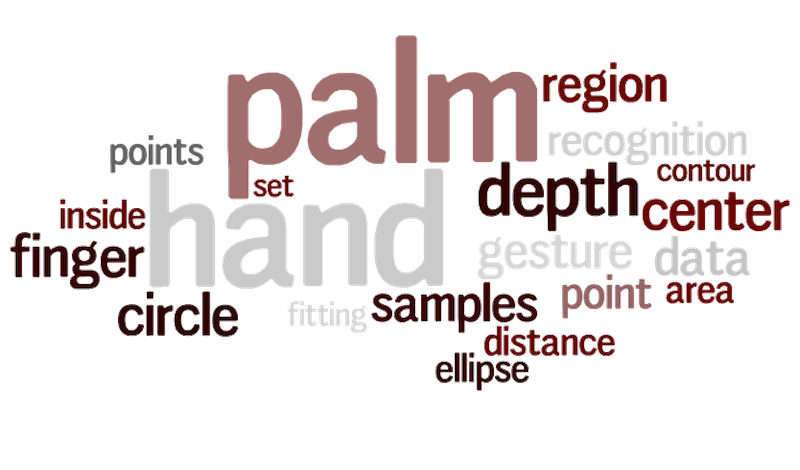
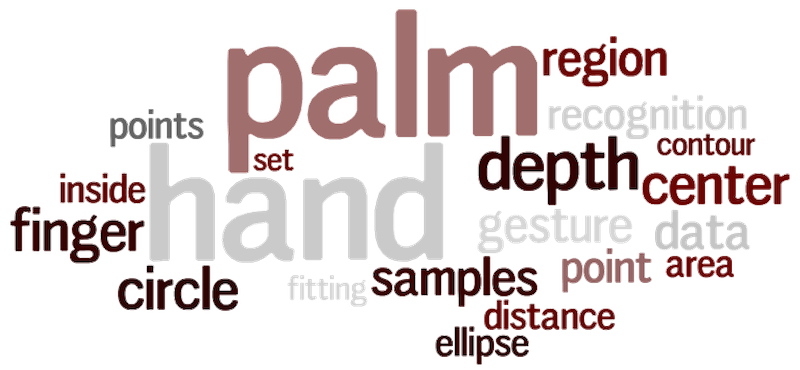
Add paper fusion agresti

diff --git a/index.html b/index.html
@@ -1,60 +1,60 @@
 <!doctype html>
 <html lang="en">
 
-  <head>
-    <meta charset="utf-8">
-    <title>Giulio Marin</title>
-    <meta name="description" content="Giulio Marin is a computer vision R&amp;D engineer at Aquifi Inc.">
-    <meta name="keywords" content="Engineer,Aquifi,R&amp;D,Algorithms,PhD,Software,Computer Vision,Machine Learning,Deep Learning">
-    <meta name="viewport" content="width=device-width, initial-scale=1.0">
-    <link rel="shortcut icon" href="favicon.ico" type="image/x-icon" />
-    <link rel="stylesheet" type="text/css" href="styles/base.css" />
-    <link href="//fonts.googleapis.com/css?family=Dosis:400,700%7CBitter:400,400italic,700&subset=latin,latin" rel="stylesheet" type="text/css">
-    <script src="https://ajax.googleapis.com/ajax/libs/jquery/1.12.0/jquery.min.js"></script>
-    <script>
-      $(function(){
-        $("#my-footer").load("/footer.html");
-      });
-    </script>
-  </head>
+<head>
+  <meta charset="utf-8">
+  <title>Giulio Marin</title>
+  <meta name="description" content="Giulio Marin is a computer vision R&amp;D engineer at Aquifi Inc.">
+  <meta name="keywords" content="Engineer,Aquifi,R&amp;D,Algorithms,PhD,Software,Computer Vision,Machine Learning,Deep Learning">
+  <meta name="viewport" content="width=device-width, initial-scale=1.0">
+  <link rel="shortcut icon" href="favicon.ico" type="image/x-icon" />
+  <link rel="stylesheet" type="text/css" href="styles/base.css" />
+  <link href="//fonts.googleapis.com/css?family=Dosis:400,700%7CBitter:400,400italic,700&subset=latin,latin" rel="stylesheet" type="text/css">
+  <script src="https://ajax.googleapis.com/ajax/libs/jquery/1.12.0/jquery.min.js"></script>
+  <script>
+  $(function(){
+    $("#my-footer").load("/footer.html");
+  });
+  </script>
+</head>
 
-  <body>
-    <p id="test1"></p>
-    <div id="topbar" role="banner">
-      <a class="logo icon-btn" href="index.html">
-        <i class="icon-home"></i>
-      </a>
+<body>
+  <p id="test1"></p>
+  <div id="topbar" role="banner">
+    <a class="logo icon-btn" href="index.html">
+      <i class="icon-home"></i>
+    </a>
 
-      <ul class="inline-list title">
-        <li><a class="btn plain" href="publications.html"><i class="icon-pencil" title="Publications"></i>Publications</a>
-        </li>
-        <li><a class="btn plain" href="projects.html"><i class="icon-floppy" title="Projects"></i>Projects</a>
-        </li>
-        <li><a class="btn plain" href="photos.html"><i class="icon-camera" title="Photos"></i>Photos</a>
-        </li>
-        <li><a class="btn plain" href="extra.html"><i class="icon-tv" title="Extra"></i>Extra</a>
-        </li>
-      </ul>
+    <ul class="inline-list title">
+      <li><a class="btn plain" href="publications.html"><i class="icon-pencil" title="Publications"></i>Publications</a>
+      </li>
+      <li><a class="btn plain" href="projects.html"><i class="icon-floppy" title="Projects"></i>Projects</a>
+      </li>
+      <li><a class="btn plain" href="photos.html"><i class="icon-camera" title="Photos"></i>Photos</a>
+      </li>
+      <li><a class="btn plain" href="extra.html"><i class="icon-tv" title="Extra"></i>Extra</a>
+      </li>
+    </ul>
 
-      <a class="icon-btn nav-trigger" href="#nav">
-        <i class="icon-menu"></i>
-      </a>
+    <a class="icon-btn nav-trigger" href="#nav">
+      <i class="icon-menu"></i>
+    </a>
+  </div>
+
+  <div id="page" role="main">
+    <div id="banner">
+      <div id="silhouettes">
+        <img src="images/io.png" alt="Giulio's face">
+      </div>
+      <div id="strap">Computer Vision R&amp;D Engineer</div>
     </div>
 
-    <div id="page" role="main">
-      <div id="banner">
-        <div id="silhouettes">
-          <img src="images/io.png" alt="Giulio's face">
-        </div>
-        <div id="strap">Computer Vision R&amp;D Engineer</div>
-      </div>
-
-      <header class="wrap">
-        <h1 itemscope itemtype="http://data-vocabulary.org/Person" class="page-title"><span itemprop="name">Giulio Marin</span></h1>
-        <p class="intro">I'm a Senior Computer Vision Engineer at Aquifi. Here I’m leading a group of a few people that focus on delivering accurate data from the depth camera. I’m also working on anomaly and defect detection combining 3D geometry and image based deep learning techniques.<br>
+    <header class="wrap">
+      <h1 itemscope itemtype="http://data-vocabulary.org/Person" class="page-title"><span itemprop="name">Giulio Marin</span></h1>
+      <p class="intro">I'm a Senior Computer Vision Engineer at Aquifi. Here I’m leading a group of a few people that focus on delivering accurate data from the depth camera. I’m also working on anomaly and defect detection combining 3D geometry and image based deep learning techniques.<br>
         I got my PhD at the University of Padova, Italy, in 2016, with a thesis on combining color and depth information to improve the quality of the acquisitions for applications from gesture recognition to 3D reconstruction.<br>
         I have experience with camera calibration, color and depth processing, 3D reconstruction, and machine learning.
-          <br>I have served and I'm serving as a reviewer and TPC member for ICIP, ICME and IEEE Signal Processing Letters.</p>
+        <br>I have served and I'm serving as a reviewer and TPC member for ICIP, ICME and IEEE Signal Processing Letters.</p>
         <ul>
           <li><a class="btn plain" href="doc/giulio_marin_cv.pdf"><i class="icon-doc" title="About me"></i>Curriculum Vitae</a>
           </li>
@@ -78,6 +78,13 @@
         <h2 class="list-title"><i class="icon-pencil"></i><a href="publications.html">Latest publications</a></h2>
         <ul class="post-list">
           <!-- Autogenerated: start-->
+          <li class="post-block">
+            <a href="publications.html#journals">
+              <p class="post-meta">Gianluca Agresti, Ludovico Minto, Giulio Marin, Pietro Zanuttigh, <em>"Stereo and ToF data fusion by learning from synthetic data"</em>, Information Fusion, Elsevier, 2018</p>
+            </a>
+          </li>
+
+
           <li class="post-block">
             <a href="publications.html#patents">
               <p class="post-meta">F. Peruch, G. Murali, G. Marin, A. Rafii, K. Tieu, <em>"System and method for assisted 3D scanning"</em>, Aquifi, Inc., US9912862B2, 2017</p>
@@ -104,13 +111,6 @@
               <p class="post-meta">A. Hazeghi, C. Dal Mutto, G. Marin, F. Peruch, M. Stoppa, A. Rafii, <em>"Systems and methods for compact space-time stereo three-dimensional depth sensing"</em>, Aquifi, Inc., US9826216B1, 2016</p>
             </a>
           </li>
-
-
-          <li class="post-block">
-            <a href="publications.html#patents">
-              <p class="post-meta">A. Hazeghi, G. Marin, F. Peruch, C. Dal Mutto, A. Rafii, <em>"Systems and methods for reducing z-thickness and zero-order effects in depth cameras"</em>, Aquifi, Inc., US9503708B2, 2016</p>
-            </a>
-          </li>
           <!-- Autogenerated: end -->
 
         </ul>
@@ -119,61 +119,61 @@
 
 
       <!--
-<section>
-<h2 class="list-title"><i class="icon-envelop"></i>Recent Projects</h2>
-<ul class="post-list">
-<li class="post-block">
-<div class="right photo">
-<img class="centered" src="publications/conferences/icip_2014_gesture_leap_kinect.png">
-</div>
-<h3 class="post-title"><a href="index.html">TODO</a></h3>
-<p class="post-meta">todo</p> <time datetime="2013-02-24T00:00:00+00:00">Feb 24, 2013</time>
-</li>
+      <section>
+      <h2 class="list-title"><i class="icon-envelop"></i>Recent Projects</h2>
+      <ul class="post-list">
+      <li class="post-block">
+      <div class="right photo">
+      <img class="centered" src="publications/conferences/icip_2014_gesture_leap_kinect.png">
+    </div>
+    <h3 class="post-title"><a href="index.html">TODO</a></h3>
+    <p class="post-meta">todo</p> <time datetime="2013-02-24T00:00:00+00:00">Feb 24, 2013</time>
+  </li>
 </ul>
 </section>
 -->
 
 
 
-      <section>
-        <h2 class="list-title"><i class="icon-camera"></i><a href="photos.html">Featured Albums</a></h2>
-        <ul class="post-list">
-          <li class="post-block">
-            <div class="right photo">
-              <img src="https://farm8.staticflickr.com/7571/15900032161_4ca0b50e44_s.jpg">
-            </div>
-            <h3 class="post-title"><a href="/photos/california.html">California</a></h3>
-            <p class="post-meta" id="numPhotos-California"></p>
-            <script>
-              $(document).ready(function() {
-                $.get('/photos/california.html',function(data){
-                  var numPhotos = $( "figure", data ).length;
-                  $("#numPhotos-California").text(numPhotos + " photos");});
-              });
-            </script>
-          </li>
-          <li class="post-block">
-            <div class="right photo">
-              <img src="https://farm4.staticflickr.com/3783/13800046785_90cb43292d_s.jpg">
-            </div>
-            <h3 class="post-title"><a href="/photos/dolomiti.html">Dolomiti</a></h3>
-            <p class="post-meta" id="numPhotos-Dolomiti"></p>
-            <script>
-              $(document).ready(function() {
-                $.get('/photos/dolomiti.html',function(data){
-                  var numPhotos = $( "figure", data ).length;
-                  $("#numPhotos-Dolomiti").text(numPhotos + " photos");});
-              });
-            </script>
-          </li>
-        </ul>
-      </section>
-    </div>
+<section>
+  <h2 class="list-title"><i class="icon-camera"></i><a href="photos.html">Featured Albums</a></h2>
+  <ul class="post-list">
+    <li class="post-block">
+      <div class="right photo">
+        <img src="https://farm8.staticflickr.com/7571/15900032161_4ca0b50e44_s.jpg">
+      </div>
+      <h3 class="post-title"><a href="/photos/california.html">California</a></h3>
+      <p class="post-meta" id="numPhotos-California"></p>
+      <script>
+      $(document).ready(function() {
+        $.get('/photos/california.html',function(data){
+          var numPhotos = $( "figure", data ).length;
+          $("#numPhotos-California").text(numPhotos + " photos");});
+        });
+        </script>
+      </li>
+      <li class="post-block">
+        <div class="right photo">
+          <img src="https://farm4.staticflickr.com/3783/13800046785_90cb43292d_s.jpg">
+        </div>
+        <h3 class="post-title"><a href="/photos/dolomiti.html">Dolomiti</a></h3>
+        <p class="post-meta" id="numPhotos-Dolomiti"></p>
+        <script>
+        $(document).ready(function() {
+          $.get('/photos/dolomiti.html',function(data){
+            var numPhotos = $( "figure", data ).length;
+            $("#numPhotos-Dolomiti").text(numPhotos + " photos");});
+          });
+          </script>
+        </li>
+      </ul>
+    </section>
+  </div>
 
-    <hr>
+  <hr>
 
-    <div id="my-footer"></div>
+  <div id="my-footer"></div>
 
-  </body>
+</body>
 
 </html>

diff --git a/publications.html b/publications.html
@@ -1,38 +1,38 @@
 <!doctype html>
 <html lang="en">
 
-  <head>
-    <meta charset="utf-8">
-    <meta name="author" content="Giulio Marin">
-    <title>Giulio Marin | Publications</title>
-    <meta name="description" content="Giulio Marin's publications'.">
-    <meta name="keywords" content="Engineer,Aquifi,R&amp;D,Algorithms,PhD,Software,Computer Vision,Machine Learning,Deep Learning,paper,publication,journal,book,chapter,patent,thesis,Leap Motion,ToF,stereo,gesture recognition,Springer, Depth camera,palm">
+<head>
+  <meta charset="utf-8">
+  <meta name="author" content="Giulio Marin">
+  <title>Giulio Marin | Publications</title>
+  <meta name="description" content="Giulio Marin's publications'.">
+  <meta name="keywords" content="Engineer,Aquifi,R&amp;D,Algorithms,PhD,Software,Computer Vision,Machine Learning,Deep Learning,paper,publication,journal,book,chapter,patent,thesis,Leap Motion,ToF,stereo,gesture recognition,Springer, Depth camera,palm">
 
-    <meta name="viewport" content="width=device-width, initial-scale=1.0">
+  <meta name="viewport" content="width=device-width, initial-scale=1.0">
 
-    <link rel="shortcut icon" href="favicon.ico" type="image/x-icon" />
+  <link rel="shortcut icon" href="favicon.ico" type="image/x-icon" />
 
-    <link rel="stylesheet" type="text/css" href="styles/base.css" />
+  <link rel="stylesheet" type="text/css" href="styles/base.css" />
 
-    <link href="//fonts.googleapis.com/css?family=Dosis:400,700%7CBitter:400,400italic,700&subset=latin,latin" rel="stylesheet" type="text/css">
+  <link href="//fonts.googleapis.com/css?family=Dosis:400,700%7CBitter:400,400italic,700&subset=latin,latin" rel="stylesheet" type="text/css">
 
-    <script src="https://ajax.googleapis.com/ajax/libs/jquery/1.12.0/jquery.min.js"></script>
-    <script>
-      $(function(){
-        $("#my-footer").load("/footer.html");
-      });
-    </script>
+  <script src="https://ajax.googleapis.com/ajax/libs/jquery/1.12.0/jquery.min.js"></script>
+  <script>
+  $(function(){
+    $("#my-footer").load("/footer.html");
+  });
+  </script>
 
-    <!-- Add dynamic information  -->
-    <script>
-      $(document).ready(function(){
-        var num_publications = $( "li.post-block" ).length;
-        $("#numCitations").append("I currently have <b>" + num_publications + "</b> publications");
-        $.get('data.html', function(data) {
-          var num = ", with <a href=\"http://scholar.google.com/citations?user=t9UpeEAAAAAJ&hl=en\"><b>" + $(data).filter("div").find("numcit").text() + "</b></a> citations.";
-          $("#numCitations").append(num);});
-      });
-      $.get('log.txt', function(data) {$("#lastUpdate").append(data);});
+  <!-- Add dynamic information  -->
+  <script>
+  $(document).ready(function(){
+    var num_publications = $( "li.post-block" ).length;
+    $("#numCitations").append("I currently have <b>" + num_publications + "</b> publications");
+    $.get('data.html', function(data) {
+      var num = ", with <a href=\"http://scholar.google.com/citations?user=t9UpeEAAAAAJ&hl=en\"><b>" + $(data).filter("div").find("numcit").text() + "</b></a> citations.";
+      $("#numCitations").append(num);});
+    });
+    $.get('log.txt', function(data) {$("#lastUpdate").append(data);});
     </script>
   </head>
 
@@ -188,6 +188,25 @@
               <!-- Links -->
               <!-- Bib -->
               <a class="btn light" href="publications/journals/marin15gesture.bib"><i title="bib"></i>bib</a>
+              <!-- Bib -->
+            </div>
+          </li>
+
+          <li class="post-block">
+            <!-- Word cloud -->
+            <div class="right photo">
+              <a href="publications/journals/agresti18fusion-wc.png">
+                <img src="publications/journals/agresti18fusion-wc.png">
+              </a>
+            </div>
+            <div class="post-meta">
+              <!-- Word cloud -->
+              <p itemscope itemtype="http://schema.org/Article" class="post-meta">Gianluca Agresti, Ludovico Minto, Giulio Marin, Pietro Zanuttigh, <em>"Stereo and ToF data fusion by learning from synthetic data"</em>, Information Fusion, Elsevier, 2018</p>
+              <!-- Links -->
+              <a class="btn light" href="https://doi.org/10.1016/j.inffus.2018.11.006"><i class="icon-doc" title="URL"></i>URL</a>
+              <!-- Links -->
+              <!-- Bib -->
+              <a class="btn light" href="publications/journals/agresti18fusion.bib"><i title="bib"></i>bib</a>
               <!-- Bib -->
             </div>
           </li>
@@ -393,6 +412,6 @@
 
       <div id="my-footer"></div>
 
-      </body>
+    </body>
 
     </html>

diff --git a/autogeneration/index.html b/autogeneration/index.html
@@ -51,8 +51,9 @@
 
       <header class="wrap">
         <h1 itemscope itemtype="http://data-vocabulary.org/Person" class="page-title"><span itemprop="name">Giulio Marin</span></h1>
-        <p class="intro">I am currently a PhD student at University of Padova and R&amp;D algorithm engineer at Aquifi Inc.. I have received a bachelor's degree ("Laurea triennale") in Information Engineering in 2011 and a master's degree ("Laurea magistrale") in Telecommunications Engineering in 2013 (110/110 cum laude) both from the University of Padova.
-          <br>Since January 2014 I'm a PhD student enrolled at the Graduate School of Information Engineering at the University of Padova. My research interests are in computer vision, in particular in the acquisition and processing of 3D scenes acquired from multiple sensors. I have also worked on gesture recognition from RGB-D data and other sensors. My works focus on combining color and depth information to improve the quality of the data independently produced by the sensors.
+        <p class="intro">I'm a Senior Computer Vision Engineer at Aquifi. Here I’m leading a group of a few people that focus on delivering accurate data from the depth camera. I’m also working on anomaly and defect detection combining 3D geometry and image based deep learning techniques.<br>
+        I got my PhD at the University of Padova, Italy, in 2016, with a thesis on combining color and depth information to improve the quality of the acquisitions for applications from gesture recognition to 3D reconstruction.<br>
+        I have experience with camera calibration, color and depth processing, 3D reconstruction, and machine learning.
           <br>I have served and I'm serving as a reviewer and TPC member for ICIP, ICME and IEEE Signal Processing Letters.</p>
         <ul>
           <li><a class="btn plain" href="doc/giulio_marin_cv.pdf"><i class="icon-doc" title="About me"></i>Curriculum Vitae</a>
